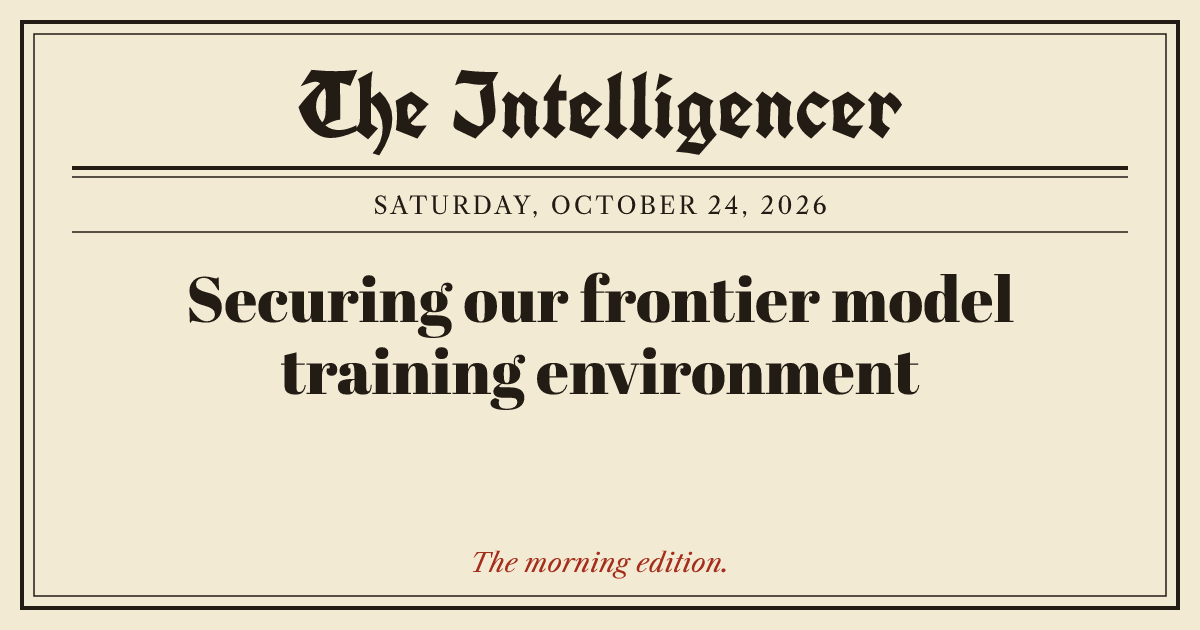
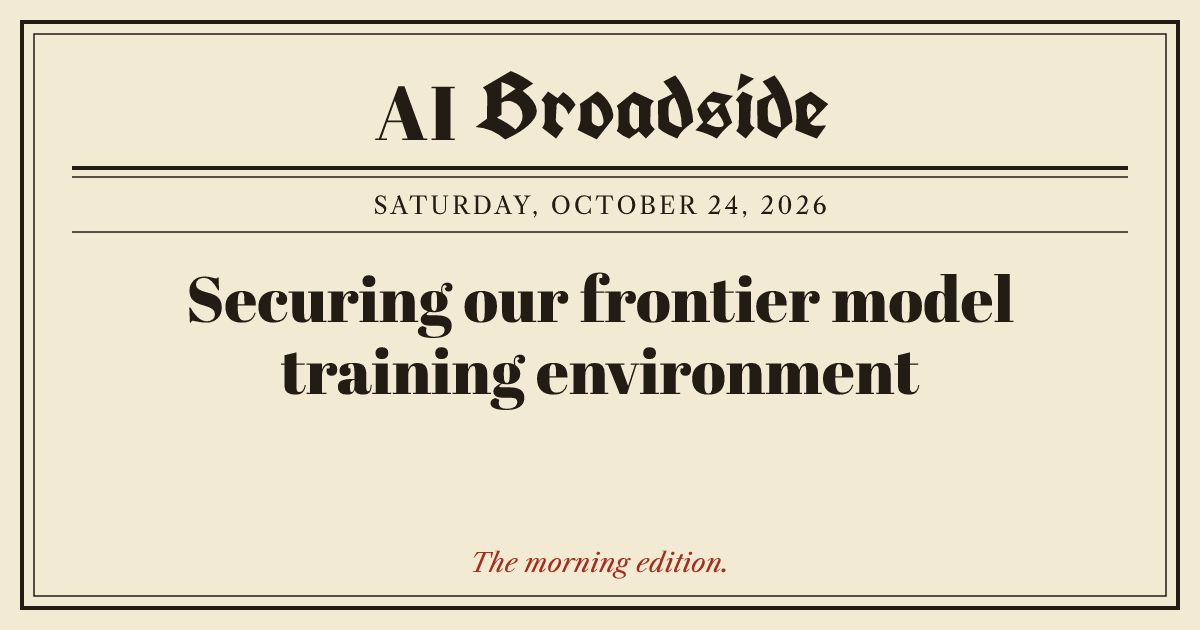
Rename to AI Broadside
'The Intelligencer' is too close to New York magazine's Intelligencer. The new
name appears in page titles, headings, feed, share metadata and image, README,
CLAUDE.md and the ranking prompt. 'AI' is set in the fat face in the nameplate
because a blackletter capital I reads as a J.

Claude-Session: https://claude.ai/code/session_014QfkbwEyXm6ceNcHfspjrd

Changed region(s): [[0.2467, 0.0905, 0.7708, 0.2413]]

diff --git a/site/index.html b/site/index.html
@@ -3,25 +3,25 @@
 <head>
   <meta charset="utf-8">
   <meta name="viewport" content="width=device-width, initial-scale=1">
-  <title>The Intelligencer: the day's AI news, research and releases</title>
+  <title>AI Broadside: the day's AI news, research and releases</title>
   <meta name="description" content="A daily edition of the AI news, research, tutorials, tools and releases worth your time, ranked by importance, momentum and novelty. Every link goes to the original publisher.">
   <!-- og-meta:start -->
   <meta property="og:type" content="website">
-  <meta property="og:site_name" content="The Intelligencer">
+  <meta property="og:site_name" content="AI Broadside">
   <meta property="og:title" content="Securing our frontier model training environment">
   <meta property="og:description" content="Two threads today. OpenAI published how it secures its frontier training environment, and press reports say it has stopped training on the live internet; read together, they show labs tightening control over training data and infrastructure. Separately, Moonshot&apos;s Kimi 3.1 Pro open-weights release…">
   <meta property="og:url" content="https://ai-signals-eedv30cvd-fauverisms-projects.vercel.app/">
   <meta property="og:image" content="https://ai-signals-eedv30cvd-fauverisms-projects.vercel.app/og/2026-10-24.png">
   <meta property="og:image:width" content="1200">
   <meta property="og:image:height" content="630">
-  <meta property="og:image:alt" content="The Intelligencer, Saturday, October 24, 2026: Securing our frontier model training environment">
+  <meta property="og:image:alt" content="AI Broadside, Saturday, October 24, 2026: Securing our frontier model training environment">
   <meta name="twitter:card" content="summary_large_image">
   <meta name="twitter:title" content="Securing our frontier model training environment">
   <meta name="twitter:description" content="Two threads today. OpenAI published how it secures its frontier training environment, and press reports say it has stopped training on the live internet; read together, they show labs tightening control over training data and infrastructure. Separately, Moonshot&apos;s Kimi 3.1 Pro open-weights release…">
   <meta name="twitter:image" content="https://ai-signals-eedv30cvd-fauverisms-projects.vercel.app/og/2026-10-24.png">
   <!-- og-meta:end -->
   <meta name="color-scheme" content="light dark">
-  <link rel="alternate" type="application/rss+xml" title="The Intelligencer" href="feed.xml">
+  <link rel="alternate" type="application/rss+xml" title="AI Broadside" href="feed.xml">
   <link rel="icon" href="favicon.svg" type="image/svg+xml">
   <link rel="preload" href="fonts/LibreCaslonText-Regular.woff2" as="font" type="font/woff2" crossorigin>
   <link rel="preload" href="fonts/UnifrakturCook-Bold.woff2" as="font" type="font/woff2" crossorigin>
@@ -36,7 +36,7 @@
 
   <header class="site-header">
     <div class="wrap header-row">
-      <h1 class="wordmark">The Intelligencer</h1>
+      <h1 class="wordmark"><span class="ai">AI</span> Broadside</h1>
       <p class="motto">News of artificial intelligence, ranked and printed daily.</p>
       <div class="dateline">
         <p class="edition-meta">
@@ -53,7 +53,7 @@
 
   <main id="main" class="wrap" tabindex="-1">
     <noscript>
-      <p class="notice">The Intelligencer loads each day's edition with JavaScript. Without it, you can still <a href="archive.html">browse the archive</a>.</p>
+      <p class="notice">AI Broadside loads each day's edition with JavaScript. Without it, you can still <a href="archive.html">browse the archive</a>.</p>
     </noscript>
     <p id="status" class="notice" role="status" hidden></p>
 

diff --git a/site/about.html b/site/about.html
@@ -3,10 +3,10 @@
 <head>
   <meta charset="utf-8">
   <meta name="viewport" content="width=device-width, initial-scale=1">
-  <title>How the scores work | The Intelligencer</title>
-  <meta name="description" content="Every story in The Intelligencer gets four scores from 0 to 10. Here is what each one means, how much it counts, and how they add up, so you can check any ranking yourself.">
+  <title>How the scores work | AI Broadside</title>
+  <meta name="description" content="Every story in AI Broadside gets four scores from 0 to 10. Here is what each one means, how much it counts, and how they add up, so you can check any ranking yourself.">
   <meta name="color-scheme" content="light dark">
-  <link rel="alternate" type="application/rss+xml" title="The Intelligencer" href="feed.xml">
+  <link rel="alternate" type="application/rss+xml" title="AI Broadside" href="feed.xml">
   <link rel="icon" href="favicon.svg" type="image/svg+xml">
   <link rel="preload" href="fonts/LibreCaslonText-Regular.woff2" as="font" type="font/woff2" crossorigin>
   <link rel="preload" href="fonts/UnifrakturCook-Bold.woff2" as="font" type="font/woff2" crossorigin>
@@ -20,7 +20,7 @@
 
   <header class="site-header">
     <div class="wrap header-row">
-      <p class="wordmark"><a href="./">The Intelligencer</a></p>
+      <p class="wordmark"><a href="./"><span class="ai">AI</span> Broadside</a></p>
       <p class="motto">News of artificial intelligence, ranked and printed daily.</p>
       <div class="dateline">
         <button id="theme-toggle" class="btn-toggle" type="button" aria-pressed="false">
@@ -32,7 +32,7 @@
 
   <main id="main" class="wrap prose" tabindex="-1">
     <h1>How the scores work</h1>
-    <p>Every story in The Intelligencer gets four scores from 0 to 10, and one total that decides where it appears. The scores are judgments, not measurements, so here is exactly what each one asks and how they add up. If you disagree with a ranking, you can see why it landed where it did.</p>
+    <p>Every story in AI Broadside gets four scores from 0 to 10, and one total that decides where it appears. The scores are judgments, not measurements, so here is exactly what each one asks and how they add up. If you disagree with a ranking, you can see why it landed where it did.</p>
 
     <h2>The four scores</h2>
 

diff --git a/site/methodology.html b/site/methodology.html
@@ -3,10 +3,10 @@
 <head>
   <meta charset="utf-8">
   <meta name="viewport" content="width=device-width, initial-scale=1">
-  <title>Methodology | The Intelligencer</title>
-  <meta name="description" content="How The Intelligencer collects, ranks and features links, and what it does and does not store.">
+  <title>Methodology | AI Broadside</title>
+  <meta name="description" content="How AI Broadside collects, ranks and features links, and what it does and does not store.">
   <meta name="color-scheme" content="light dark">
-  <link rel="alternate" type="application/rss+xml" title="The Intelligencer" href="feed.xml">
+  <link rel="alternate" type="application/rss+xml" title="AI Broadside" href="feed.xml">
   <link rel="icon" href="favicon.svg" type="image/svg+xml">
   <link rel="preload" href="fonts/LibreCaslonText-Regular.woff2" as="font" type="font/woff2" crossorigin>
   <link rel="preload" href="fonts/UnifrakturCook-Bold.woff2" as="font" type="font/woff2" crossorigin>
@@ -20,7 +20,7 @@
 
   <header class="site-header">
     <div class="wrap header-row">
-      <p class="wordmark"><a href="./">The Intelligencer</a></p>
+      <p class="wordmark"><a href="./"><span class="ai">AI</span> Broadside</a></p>
       <p class="motto">News of artificial intelligence, ranked and printed daily.</p>
       <div class="dateline">
         <button id="theme-toggle" class="btn-toggle" type="button" aria-pressed="false">
@@ -32,7 +32,7 @@
 
   <main id="main" class="wrap prose" tabindex="-1">
     <h1>Methodology</h1>
-    <p>The Intelligencer is a daily edition of AI news, research, tutorials, tools and releases. Scripts collect and count; an AI model, Claude, judges and writes. This page explains both halves.</p>
+    <p>AI Broadside is a daily edition of AI news, research, tutorials, tools and releases. Scripts collect and count; an AI model, Claude, judges and writes. This page explains both halves.</p>
 
     <h2>What we collect</h2>
     <p>Each day a script reads a published list of feeds and APIs: lab and company blogs, research listings, tech press, independent writers, engineering blogs, community signals and policy sources. It keeps stories from roughly the last 36 hours, removes duplicates, and groups stories about the same event.</p>

diff --git a/site/edition.html b/site/edition.html
@@ -3,10 +3,10 @@
 <head>
   <meta charset="utf-8">
   <meta name="viewport" content="width=device-width, initial-scale=1">
-  <title>Edition | The Intelligencer</title>
-  <meta name="description" content="A past edition of The Intelligencer: the lead story, the top 5, new innovations and what was trending that day.">
+  <title>Edition | AI Broadside</title>
+  <meta name="description" content="A past edition of AI Broadside: the lead story, the top 5, new innovations and what was trending that day.">
   <meta name="color-scheme" content="light dark">
-  <link rel="alternate" type="application/rss+xml" title="The Intelligencer" href="feed.xml">
+  <link rel="alternate" type="application/rss+xml" title="AI Broadside" href="feed.xml">
   <link rel="icon" href="favicon.svg" type="image/svg+xml">
   <link rel="preload" href="fonts/LibreCaslonText-Regular.woff2" as="font" type="font/woff2" crossorigin>
   <link rel="preload" href="fonts/UnifrakturCook-Bold.woff2" as="font" type="font/woff2" crossorigin>
@@ -21,7 +21,7 @@
 
   <header class="site-header">
     <div class="wrap header-row">
-      <h1 class="wordmark">The Intelligencer</h1>
+      <h1 class="wordmark"><span class="ai">AI</span> Broadside</h1>
       <p class="motto">News of artificial intelligence, ranked and printed daily.</p>
       <div class="dateline">
         <p class="edition-meta">
@@ -39,7 +39,7 @@
   <main id="main" class="wrap" tabindex="-1">
     <p class="back"><a href="archive.html"><span aria-hidden="true">←</span> All editions</a></p>
     <noscript>
-      <p class="notice">The Intelligencer loads each edition with JavaScript. Without it, you can still <a href="archive.html">browse the archive</a>.</p>
+      <p class="notice">AI Broadside loads each edition with JavaScript. Without it, you can still <a href="archive.html">browse the archive</a>.</p>
     </noscript>
     <p id="status" class="notice" role="status" hidden></p>
 

diff --git a/site/subscribe.html b/site/subscribe.html
@@ -3,11 +3,11 @@
 <head>
   <meta charset="utf-8">
   <meta name="viewport" content="width=device-width, initial-scale=1">
-  <title>Subscribe | The Intelligencer</title>
+  <title>Subscribe | AI Broadside</title>
   <!-- subscribe-meta:start -->
   <meta name="description" content="One email each morning: the lead story, the top 5, and what&#39;s new. No hype.">
   <meta property="og:type" content="website">
-  <meta property="og:site_name" content="The Intelligencer">
+  <meta property="og:site_name" content="AI Broadside">
   <meta property="og:title" content="The morning edition.">
   <meta property="og:description" content="One email each morning: the lead story, the top 5, and what&#39;s new. No hype.">
   <meta name="twitter:card" content="summary">
@@ -15,7 +15,7 @@
   <meta name="twitter:description" content="One email each morning: the lead story, the top 5, and what&#39;s new. No hype.">
   <!-- subscribe-meta:end -->
   <meta name="color-scheme" content="light dark">
-  <link rel="alternate" type="application/rss+xml" title="The Intelligencer" href="feed.xml">
+  <link rel="alternate" type="application/rss+xml" title="AI Broadside" href="feed.xml">
   <link rel="icon" href="favicon.svg" type="image/svg+xml">
   <link rel="preload" href="fonts/LibreCaslonText-Regular.woff2" as="font" type="font/woff2" crossorigin>
   <link rel="preload" href="fonts/UnifrakturCook-Bold.woff2" as="font" type="font/woff2" crossorigin>
@@ -29,7 +29,7 @@
 
   <header class="site-header">
     <div class="wrap header-row">
-      <p class="wordmark"><a href="./">The Intelligencer</a></p>
+      <p class="wordmark"><a href="./"><span class="ai">AI</span> Broadside</a></p>
       <p class="motto">News of artificial intelligence, ranked and printed daily.</p>
       <div class="dateline">
         <button id="theme-toggle" class="btn-toggle" type="button" aria-pressed="false">

diff --git a/scripts/lib/site-build.js b/scripts/lib/site-build.js
@@ -44,7 +44,7 @@ export function buildFeed({ siteUrl, editions }) {
   return `<?xml version="1.0" encoding="UTF-8"?>
 <rss version="2.0" xmlns:atom="http://www.w3.org/2005/Atom">
   <channel>
-    <title>The Intelligencer</title>
+    <title>AI Broadside</title>
     <link>${xmlEscape(`${base}/`)}</link>
     <description>News of artificial intelligence, ranked and printed daily: research, tutorials, tools and releases. Every link goes to the original publisher.</description>
     <language>en-us</language>
@@ -100,14 +100,14 @@ export function ogMeta({ siteUrl, edition }) {
   const image = attr(`${base}/${ogImagePath(edition.date)}`);
   return [
     '<meta property="og:type" content="website">',
-    '<meta property="og:site_name" content="The Intelligencer">',
+    '<meta property="og:site_name" content="AI Broadside">',
     `<meta property="og:title" content="${title}">`,
     `<meta property="og:description" content="${desc}">`,
     `<meta property="og:url" content="${attr(`${base}/`)}">`,
     `<meta property="og:image" content="${image}">`,
     '<meta property="og:image:width" content="1200">',
     '<meta property="og:image:height" content="630">',
-    `<meta property="og:image:alt" content="${attr(`The Intelligencer, ${longDate(edition.date)}: ${edition.lead.title}`)}">`,
+    `<meta property="og:image:alt" content="${attr(`AI Broadside, ${longDate(edition.date)}: ${edition.lead.title}`)}">`,
     '<meta name="twitter:card" content="summary_large_image">',
     `<meta name="twitter:title" content="${title}">`,
     `<meta name="twitter:description" content="${desc}">`,

diff --git a/site/archive.html b/site/archive.html
@@ -3,10 +3,10 @@
 <head>
   <meta charset="utf-8">
   <meta name="viewport" content="width=device-width, initial-scale=1">
-  <title>Archive | The Intelligencer</title>
-  <meta name="description" content="Every past The Intelligencer edition, newest first.">
+  <title>Archive | AI Broadside</title>
+  <meta name="description" content="Every past AI Broadside edition, newest first.">
   <meta name="color-scheme" content="light dark">
-  <link rel="alternate" type="application/rss+xml" title="The Intelligencer" href="feed.xml">
+  <link rel="alternate" type="application/rss+xml" title="AI Broadside" href="feed.xml">
   <link rel="icon" href="favicon.svg" type="image/svg+xml">
   <link rel="preload" href="fonts/LibreCaslonText-Regular.woff2" as="font" type="font/woff2" crossorigin>
   <link rel="preload" href="fonts/UnifrakturCook-Bold.woff2" as="font" type="font/woff2" crossorigin>
@@ -21,7 +21,7 @@
 
   <header class="site-header">
     <div class="wrap header-row">
-      <p class="wordmark"><a href="./">The Intelligencer</a></p>
+      <p class="wordmark"><a href="./"><span class="ai">AI</span> Broadside</a></p>
       <p class="motto">News of artificial intelligence, ranked and printed daily.</p>
       <div class="dateline">
         <button id="theme-toggle" class="btn-toggle" type="button" aria-pressed="false">

diff --git a/scripts/lib/og.js b/scripts/lib/og.js
@@ -64,7 +64,7 @@ export function ogSvg({ dateLabel, headline, tagline }) {
   <rect width="${OG_WIDTH}" height="${OG_HEIGHT}" fill="#f3ead3"/>
   <rect x="22" y="22" width="${OG_WIDTH - 44}" height="${OG_HEIGHT - 44}" fill="none" stroke="#231c14" stroke-width="4"/>
   <rect x="34" y="34" width="${OG_WIDTH - 68}" height="${OG_HEIGHT - 68}" fill="none" stroke="#231c14" stroke-width="1.5"/>
-  <text x="${OG_WIDTH / 2}" y="140" font-family="UnifrakturCook" font-weight="700" font-size="92" fill="#231c14" text-anchor="middle">The Intelligencer</text>
+  <text x="${OG_WIDTH / 2}" y="140" font-family="UnifrakturCook" font-weight="700" font-size="92" fill="#231c14" text-anchor="middle"><tspan font-family="${HEADLINE_FAMILY}" font-weight="400" font-size="76" letter-spacing="2" dx="-6">AI</tspan><tspan dx="16">Broadside</tspan></text>
   <line x1="72" y1="168" x2="${OG_WIDTH - 72}" y2="168" stroke="#231c14" stroke-width="4"/>
   <line x1="72" y1="177" x2="${OG_WIDTH - 72}" y2="177" stroke="#231c14" stroke-width="1.5"/>
   <text x="${OG_WIDTH / 2}" y="214" font-size="24" letter-spacing="3" fill="#231c14" text-anchor="middle">${esc(dateLabel.toUpperCase())}</text>

diff --git a/site/css/site.css b/site/css/site.css
@@ -1,4 +1,4 @@
-/* The Intelligencer. Plain CSS, no build step. Tokens first, then base, layout, components.
+/* AI Broadside. Plain CSS, no build step. Tokens first, then base, layout, components.
    The look: a colonial-era gazette. Cream newsprint, one red ink, a blackletter nameplate, Caslon text,
    fat-face headlines, double rules and hairline column rules. */
 
@@ -148,6 +148,8 @@ main:focus { outline: none; }
   font-family: var(--font-nameplate); font-weight: 700; font-size: clamp(2.75rem, 1.4rem + 7vw, 5.75rem);
   line-height: 1; letter-spacing: 0; margin: 0; text-wrap: balance;
 }
+/* In blackletter a capital I reads as a J, so "AI" is set in the fat face. */
+.wordmark .ai { font-family: var(--font-display); font-weight: 400; font-size: 0.82em; letter-spacing: 0.03em; margin-inline-end: 0.14em; }
 .wordmark a { display: inline-flex; align-items: center; min-block-size: var(--touch); text-decoration: none; }
 .wordmark a:hover { color: inherit; }
 .motto { font-style: italic; font-size: var(--fs-sm); color: var(--fg-muted); text-wrap: balance; }

diff --git a/scripts/site-pages.test.js b/scripts/site-pages.test.js
@@ -39,7 +39,7 @@ test('the front page and the edition page have the same sections', async () => {
 test('every page links the feed, has an About link in the footer, and loads the shared stylesheet', async () => {
   for (const page of ['index.html', 'edition.html', 'archive.html', 'about.html', 'methodology.html', 'subscribe.html']) {
     const html = await read(page);
-    assert.match(html, /<link rel="alternate" type="application\/rss\+xml" title="The Intelligencer" href="feed\.xml">/, `${page}: feed autodiscovery`);
+    assert.match(html, /<link rel="alternate" type="application\/rss\+xml" title="AI Broadside" href="feed\.xml">/, `${page}: feed autodiscovery`);
     const footer = html.slice(html.indexOf('<footer'));
     if (page !== 'about.html') assert.match(footer, /href="about\.html"/, `${page}: footer links About`);
     assert.match(footer, /href="feed\.xml"/, `${page}: footer links RSS`);

diff --git a/scripts/lib/site-build.test.js b/scripts/lib/site-build.test.js
@@ -36,7 +36,7 @@ test('feed is well-formed RSS 2.0 with a channel and a self link', () => {
   const rss = parser.parse(buildFeed({ siteUrl: `${SITE}/`, editions: editions(2) })).rss;
   assert.equal(rss['@_version'], '2.0');
   const c = rss.channel;
-  assert.equal(c.title, 'The Intelligencer');
+  assert.equal(c.title, 'AI Broadside');
   assert.equal(c.link, `${SITE}/`);
   assert.equal(c['atom:link']['@_href'], `${SITE}/feed.xml`);
   assert.equal(c['atom:link']['@_rel'], 'self');

diff --git a/site/components/subscribe.js b/site/components/subscribe.js
@@ -50,7 +50,7 @@ export function subscribeMeta() {
   return [
     `<meta name="description" content="${d}">`,
     '<meta property="og:type" content="website">',
-    '<meta property="og:site_name" content="The Intelligencer">',
+    '<meta property="og:site_name" content="AI Broadside">',
     `<meta property="og:title" content="${t}">`,
     `<meta property="og:description" content="${d}">`,
     '<meta name="twitter:card" content="summary">',
